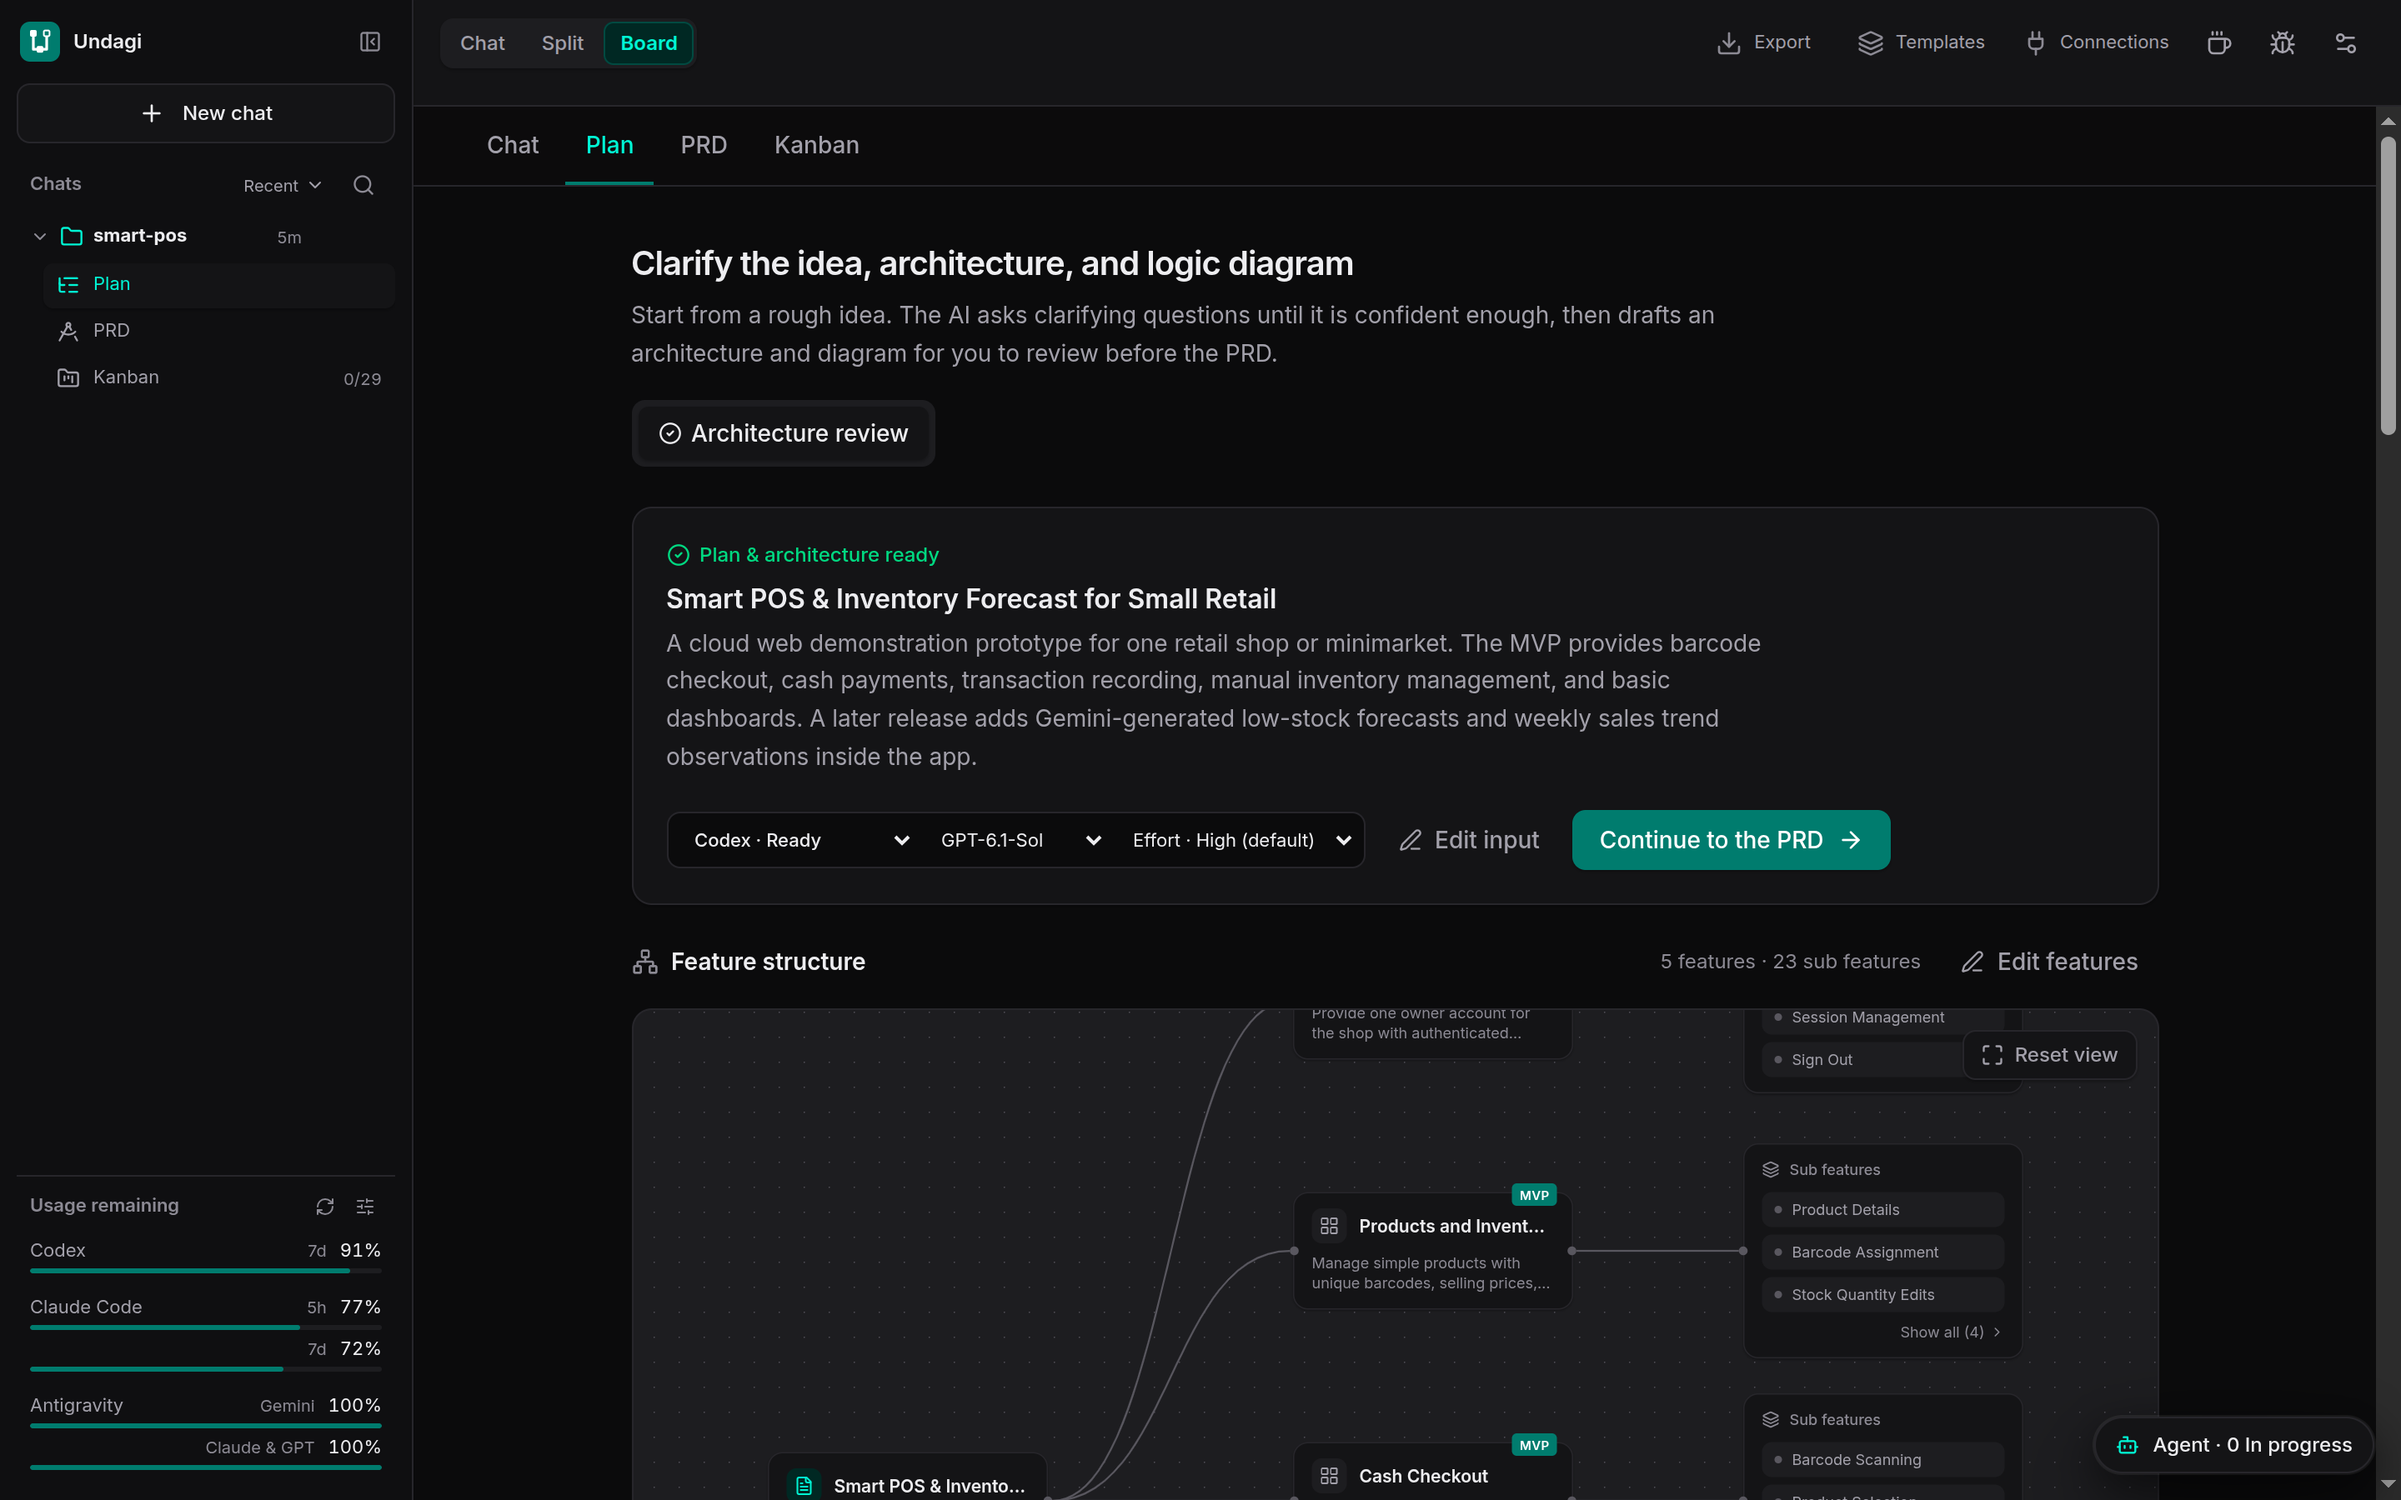
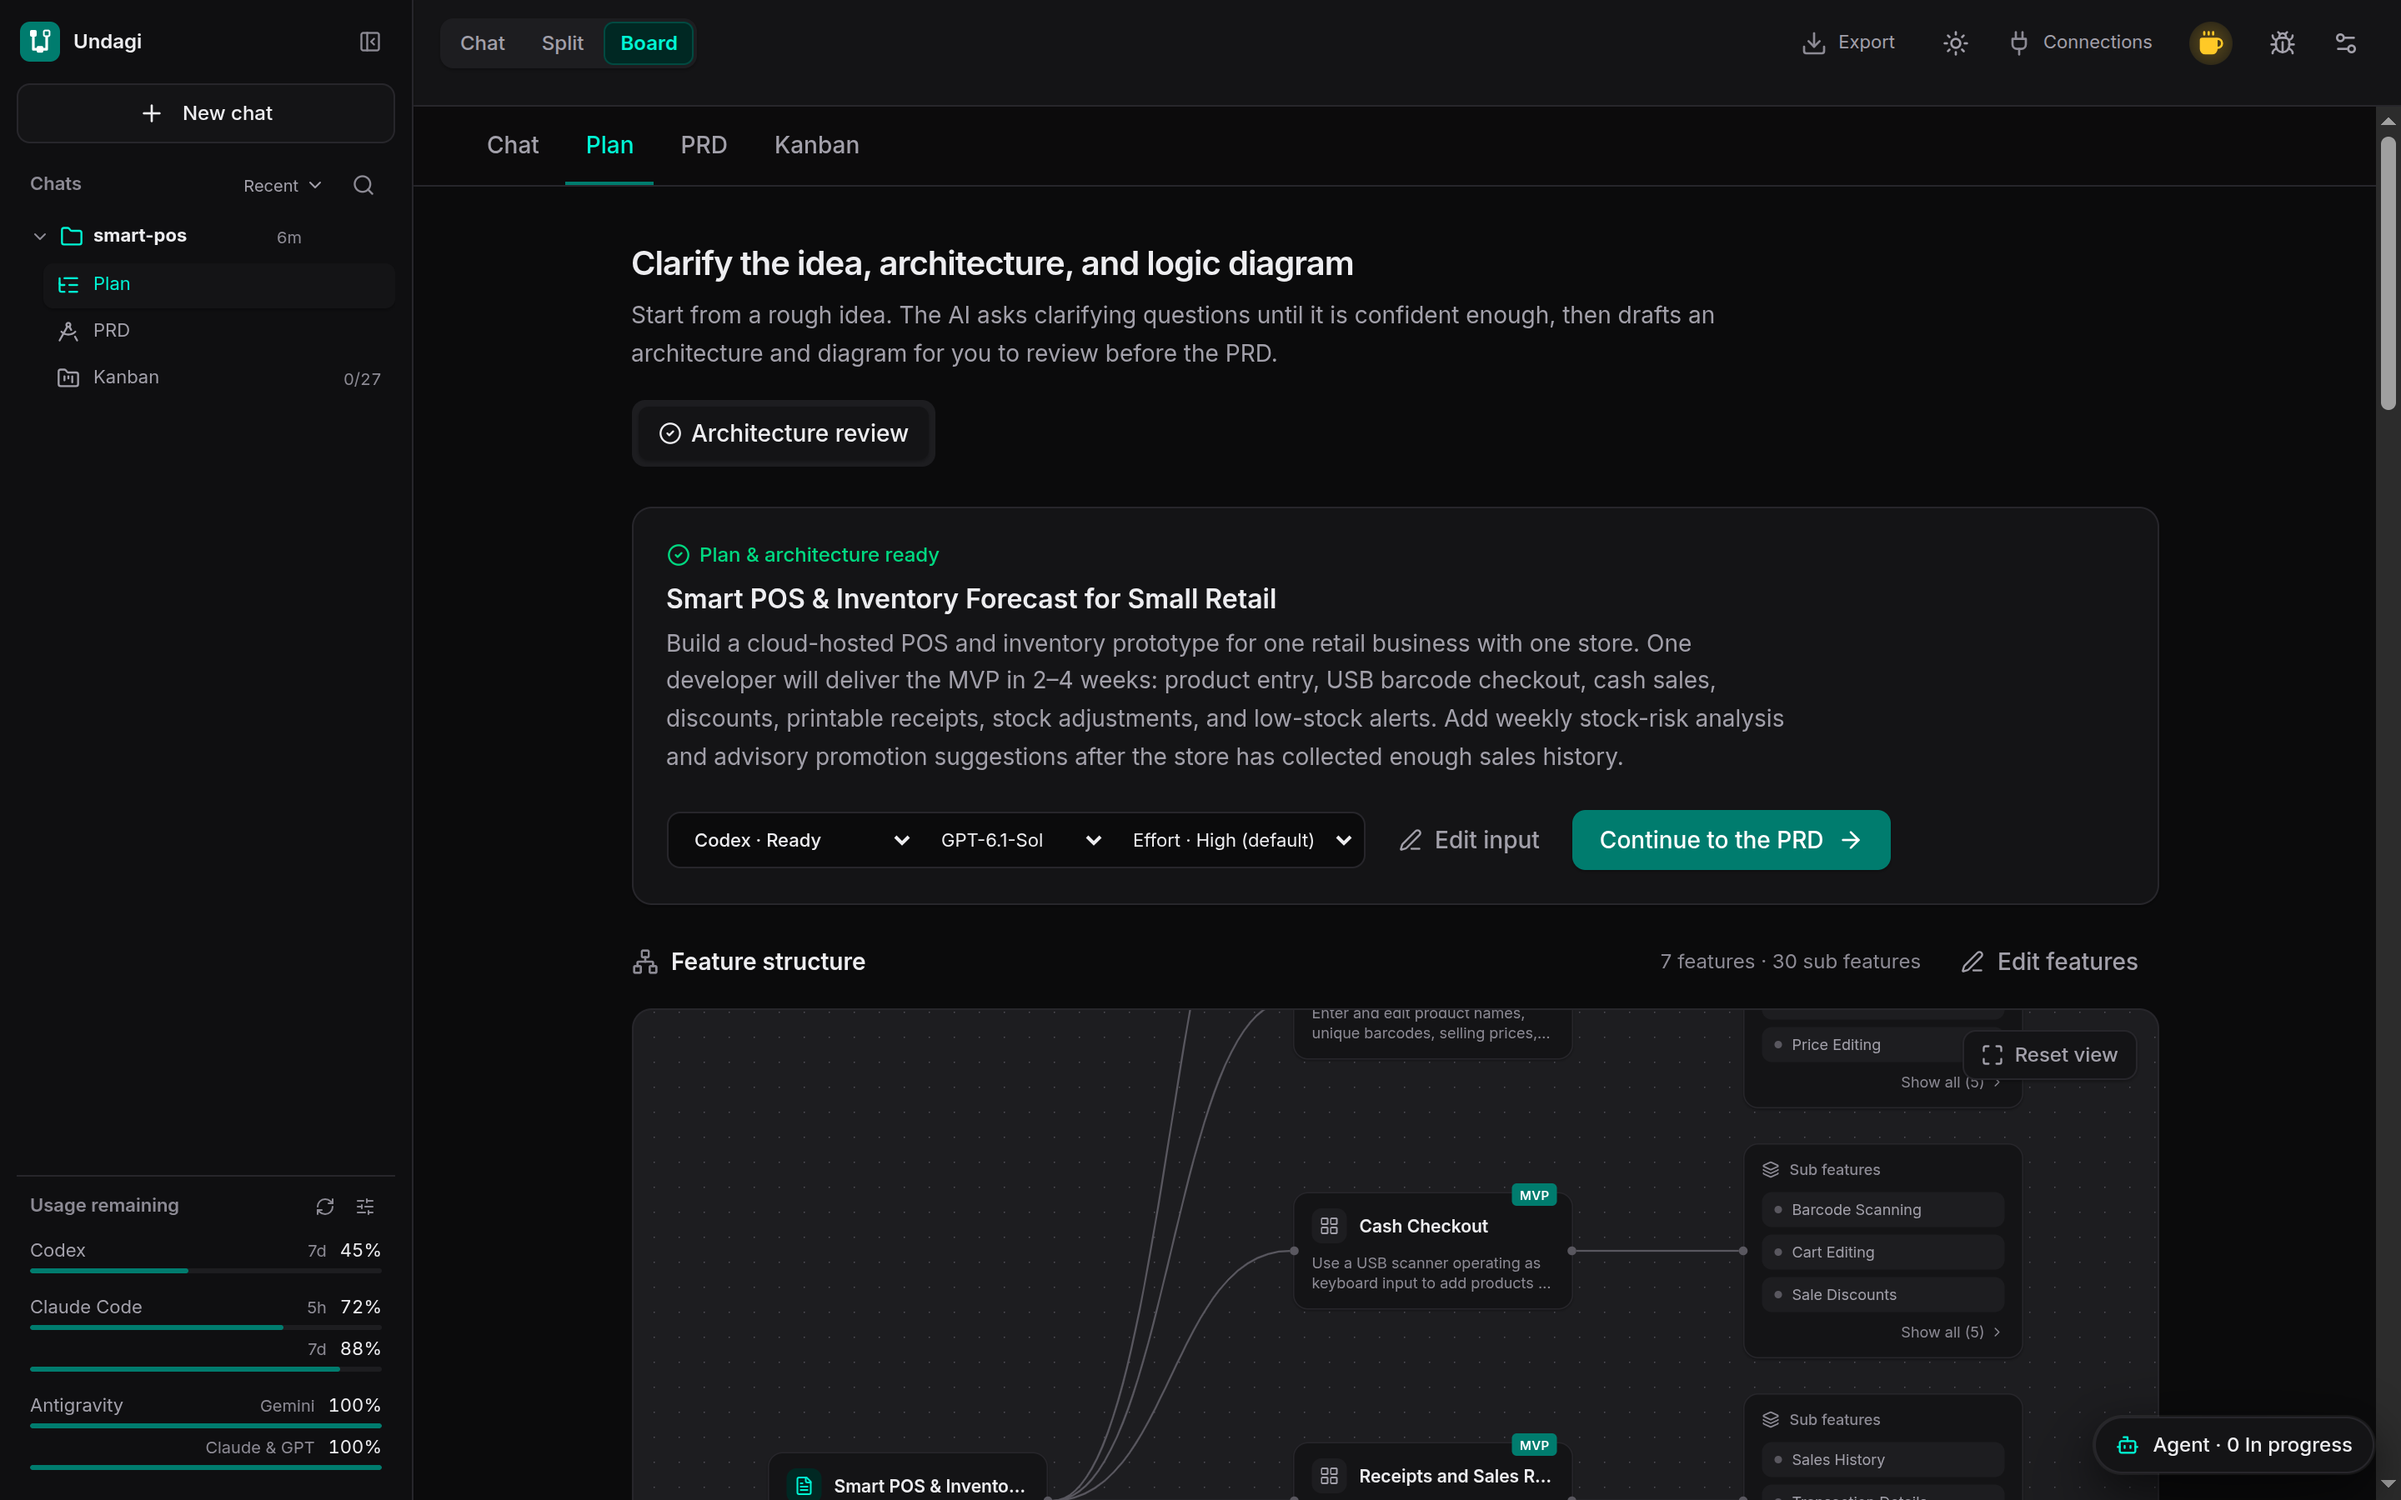
docs: refresh the landing page screenshots with the current app
The board and plan shots, in light and dark, now show the header with the theme
switch and the golden support button. They come from a newly generated demo
project (Smart POS, 27 tasks) made with Codex.

diff --git a/docs/index.html b/docs/index.html
@@ -376,7 +376,7 @@ table.cmp { border-collapse: collapse; width: 100%; min-width: 760px; font-size:
     <div class="shot" id="heroShot">
       <img class="themed" data-light="assets/board-light.png" data-dark="assets/board-dark.png"
            src="assets/board-dark.png"
-           alt="Undagi's board for a small-shop POS project: a Run Phase 1 button, project memory, and 29 generated tasks with IDs, phases, priorities and dependencies. The sidebar shows the folder's Plan, PRD and Kanban, and the remaining usage of Codex, Claude Code and Antigravity."
+           alt="Undagi's board for a small-shop POS project: a Run Phase 1 button, project memory, and 27 generated tasks with IDs, phases, priorities and dependencies. The sidebar shows the folder's Plan, PRD and Kanban, and the remaining usage of Codex, Claude Code and Antigravity."
            width="2880" height="1800" />
     </div>
   </div>
